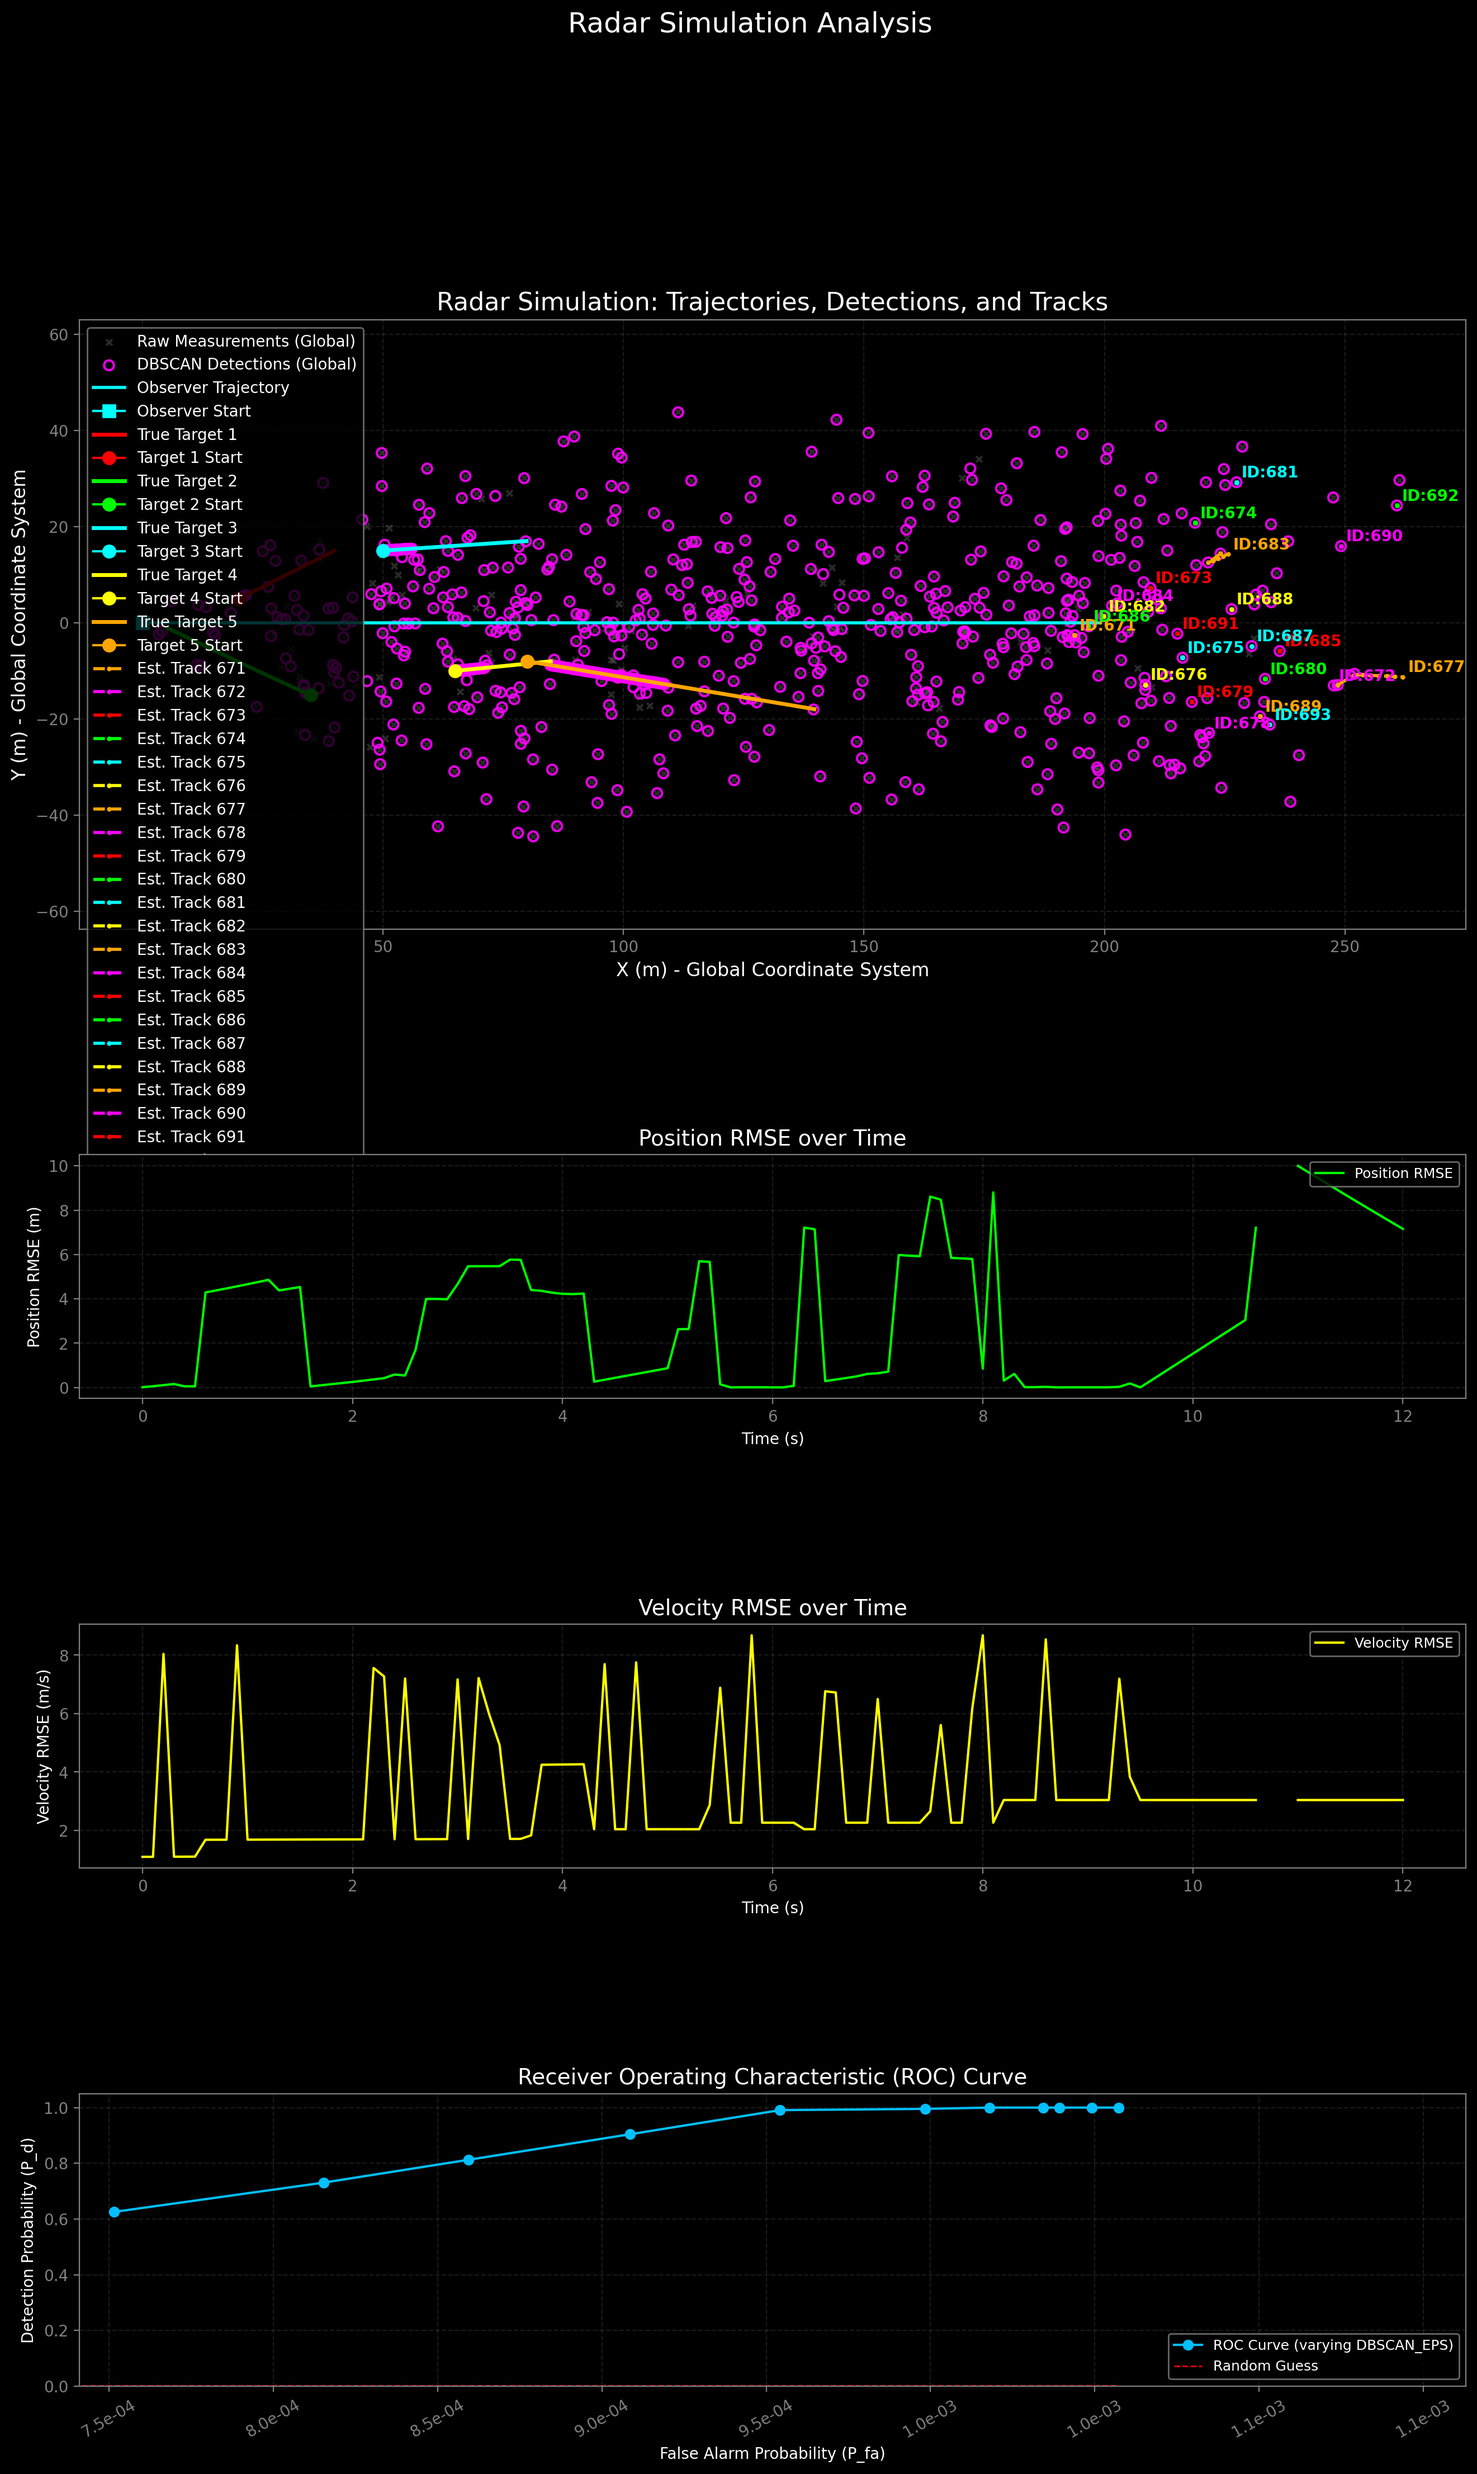
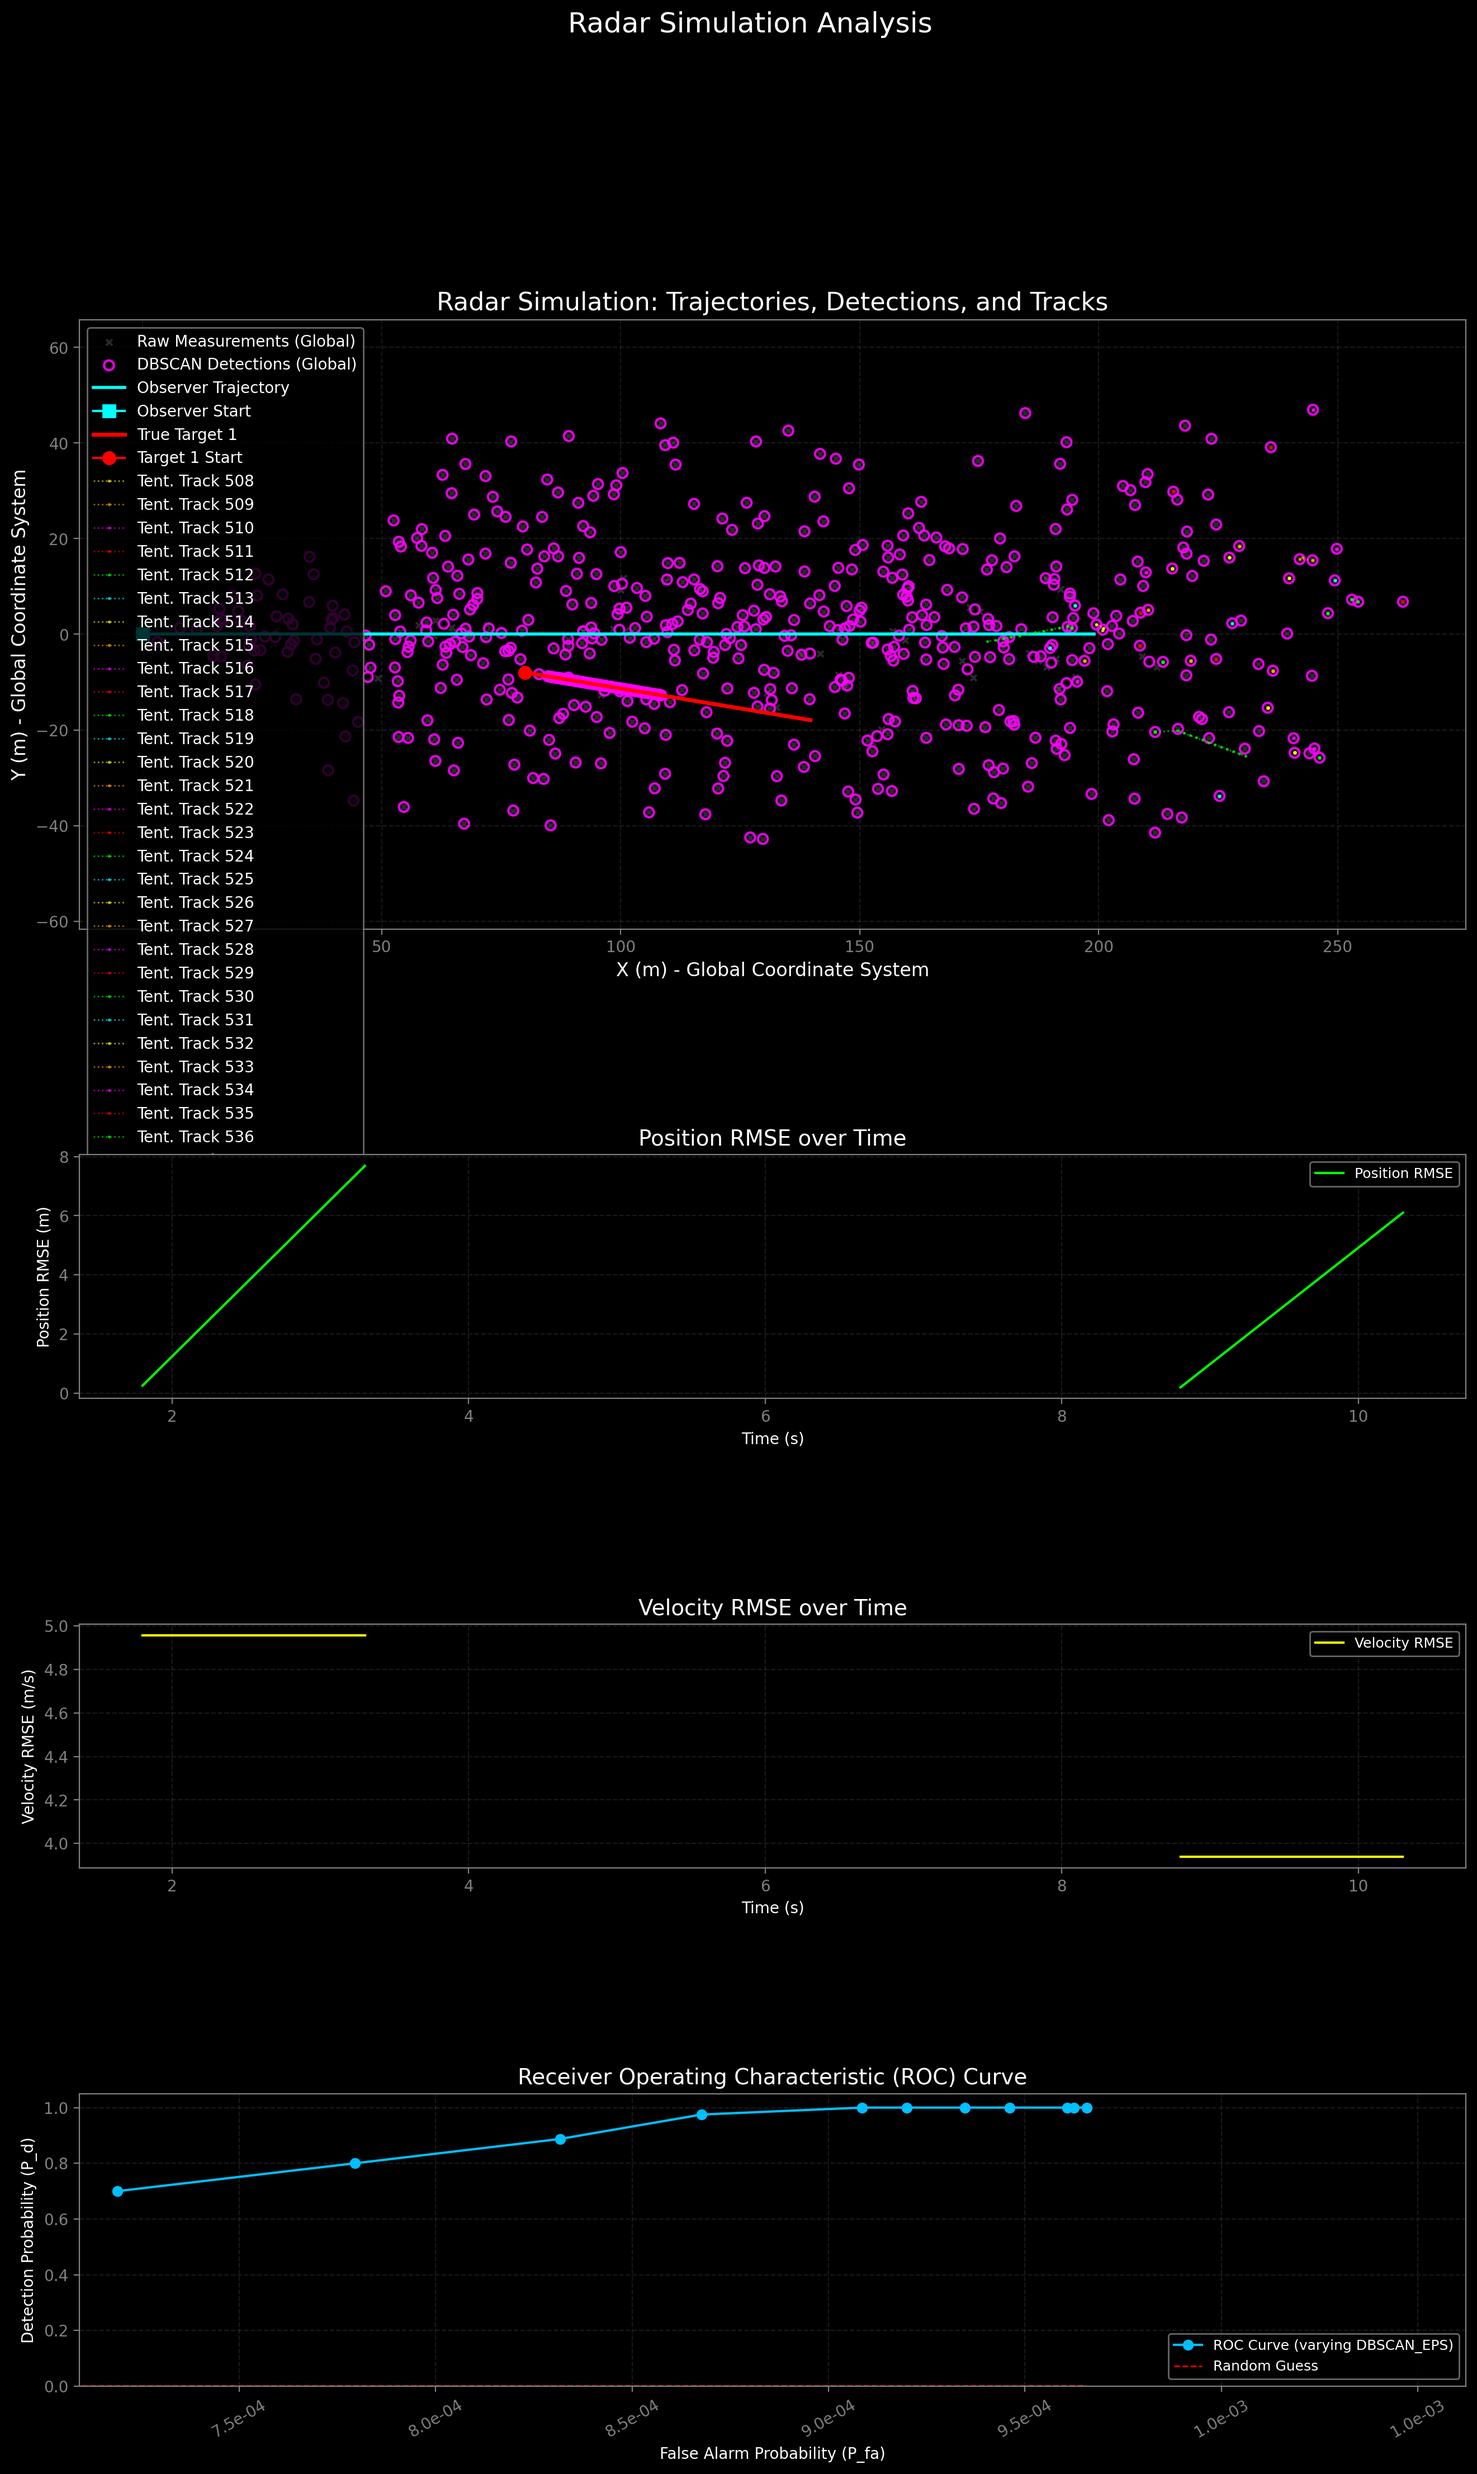
确实是调不出了

diff --git a/config.py b/config.py
@@ -47,16 +47,16 @@ RADAR_RANGE_RESOLUTION_M = 1.0
 RADAR_AZIMUTH_RESOLUTION_DEG = 2.0
 
 # --- 检测器参数 (DBSCAN) ---
-DBSCAN_EPS = 6 # 这个值是默认值，会被ROC曲线生成过程临时修改
+DBSCAN_EPS = 4.5 # 这个值是默认值，会被ROC曲线生成过程临时修改
 DBSCAN_MIN_SAMPLES = 1
 
 # --- 新增：ROC曲线参数 ---
 ROC_EPS_VALUES = [1.0, 1.5, 2.0, 2.7, 3.5, 4.5, 6.0, 8.0, 10.0, 12.0, 15.0] # 确保有多个值
 # --- 跟踪器参数 ---
 GATING_THRESHOLD_EUCLIDEAN = 5.0
-M_CONFIRM = 1
-MAX_CONSECUTIVE_MISSES = 10
-N_CONFIRM_AGE = 10
+M_CONFIRM = 3
+MAX_CONSECUTIVE_MISSES = 15
+N_CONFIRM_AGE = 20
 
 # --- 输出路径 ---
 OUTPUT_DIR = "output"
